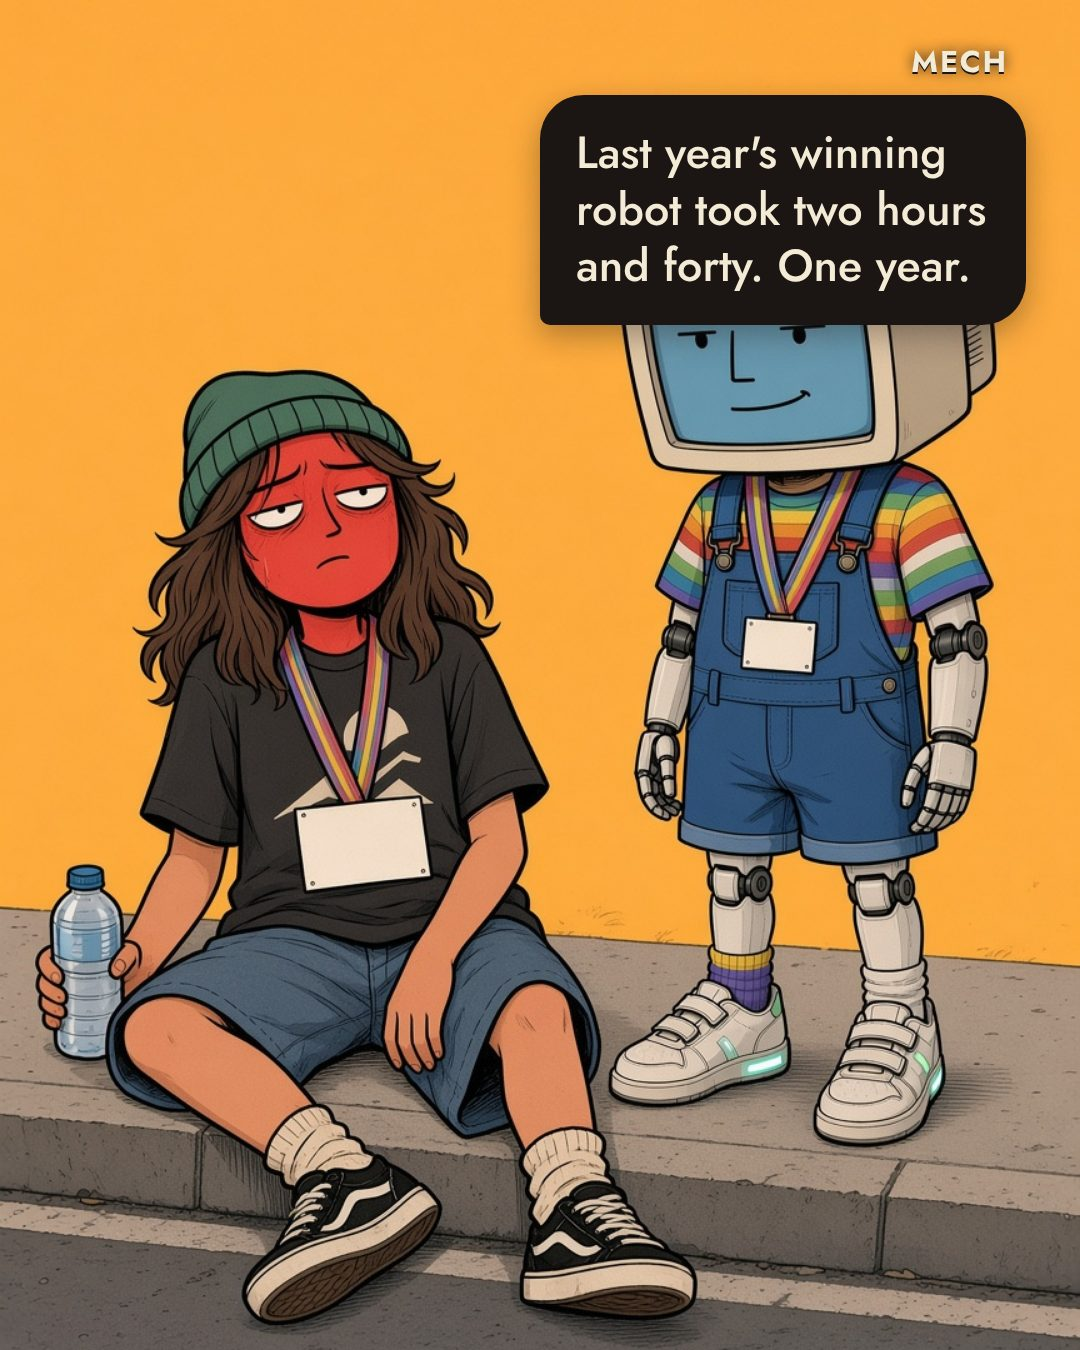
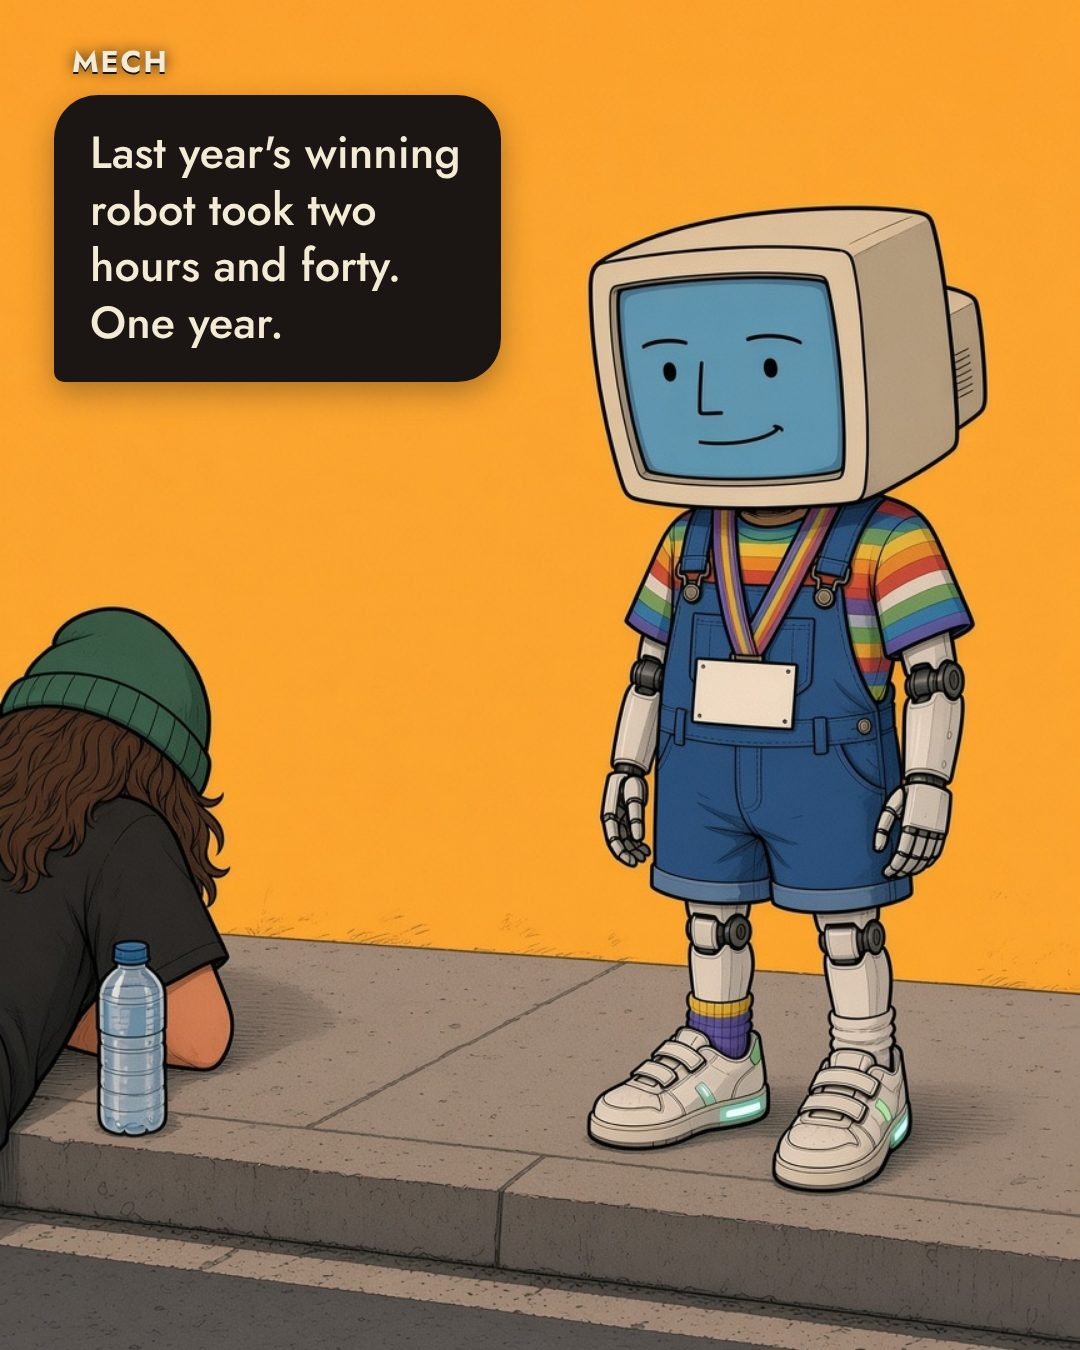
No. 4: the curb in three angles, the fallen robot's face on model, cut-outs on the two cutaways
Claude-Session: https://claude.ai/code/session_01UT8Dn4BonstVXXBgMgCnTf

diff --git a/reels/no4/shots.js b/reels/no4/shots.js
@@ -1,15 +1,17 @@
 // No. 4 — a robot ran a half marathon faster than any human. The frames in final/, the lines from the strip.
+// The curb is one place: Meatbag slumped at the left, Mech standing at the right; wide, then his end, then hers.
 const M = "Mech", H = "Meatbag";
+const mcut = "../../characters/mech/cutout/", hcut = "../../characters/meatbag/cutout/";
 module.exports = {
   shots: [
     { n: 1, pic: "final/01-title.jpg", who: "", line: "" },
     { n: 2, pic: "final/05-curb.jpg", who: H, side: "left", pos: "top", w: "36%", line: "50:26." },
     { n: 3, pic: "final/02-scoreboard.jpg", who: "", line: "" },
-    { n: 4, pic: "final/05-curb.jpg", who: M, side: "right", pos: "top", w: "50%", line: "Last year's winning robot took two hours and forty. One year." },
-    { n: 5, pic: "final/03-fallen.jpg", who: H, side: "left", pos: "top", w: "50%", line: "One of you fell over at the start line." },
-    { n: 6, pic: "final/04-cop.jpg", who: M, side: "left", pos: "top", w: "46%", line: "He has been retired." },
-    { n: 7, pic: "final/05-curb.jpg", who: H, side: "left", pos: "top", w: "36%", line: "Same." },
+    { n: 4, pic: "final/04-mech.jpg", who: M, side: "left", pos: "top", w: "46%", line: "Last year's winning robot took two hours and forty. One year." },
+    { n: 5, pic: "final/03-fallen.jpg", who: H, cam: hcut + "05-side-eye.png", line: "One of you fell over at the start line." },
+    { n: 6, pic: "final/04-cop.jpg", who: M, cam: mcut + "04-smug.png", line: "He has been retired." },
+    { n: 7, pic: "final/07-meatbag.jpg", who: H, side: "right", pos: "top", w: "36%", line: "Same." },
     { n: 8, pic: "final/06-end.png", who: "", line: "" },
   ],
-  focus: { 1: "50% 50%", 2: "50% 50%", 3: "50% 50%", 4: "50% 50%", 5: "50% 50%", 6: "50% 50%", 7: "50% 50%", 8: "50% 50%" },
+  focus: { 1: "50% 50%" },
 };
